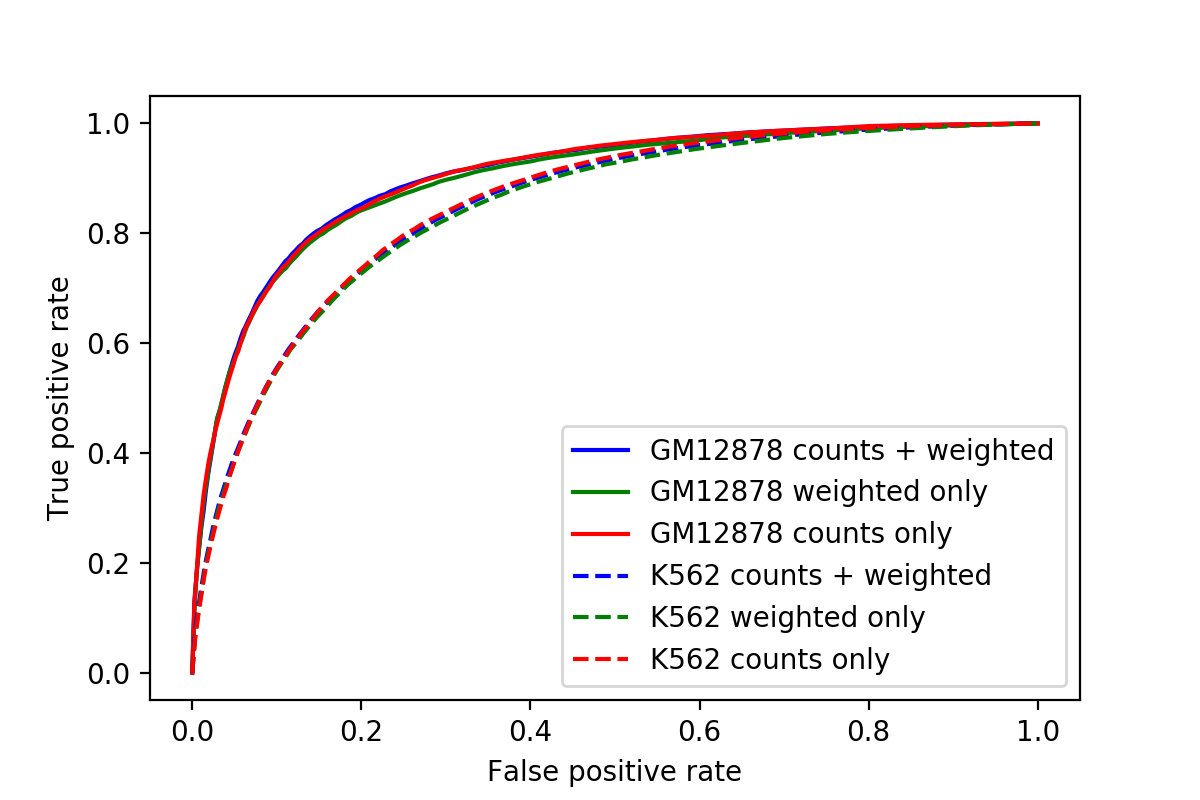
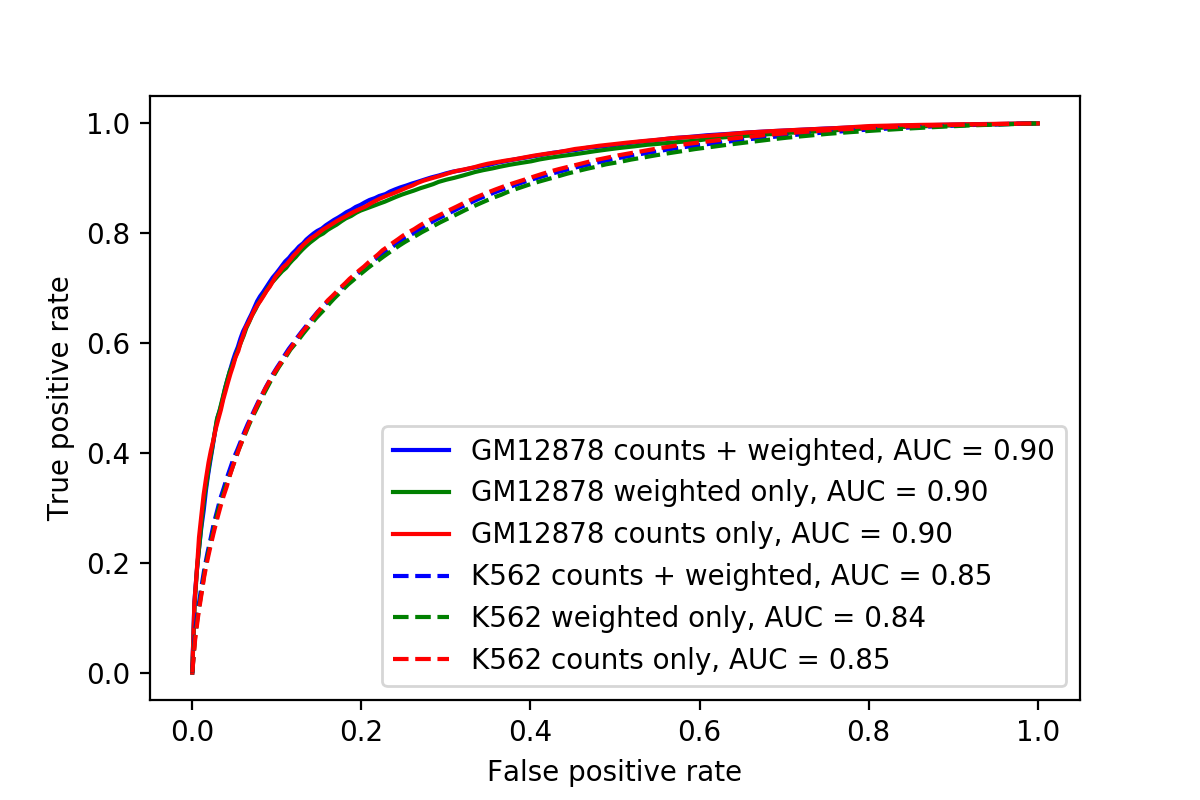
added fig4 fig5 plotting scripts

Changed region(s): [[0.3083, 0.5312, 0.8942, 0.875]]

diff --git a/scripts/plot_coeff_cell_lines.py b/scripts/plot_coeff_cell_lines.py
@@ -1,0 +1,35 @@
+import numpy as np
+import matplotlib.pyplot as plt
+import pandas as pd
+
+gm_coef2_fname= "../results/ENCFF342EGB_ENCFF305QBE_TPM_matrix_weighted_counts_only_lr_ranks.tsv"
+gm_coef2 = pd.read_csv(gm_coef2_fname, sep='\t', header=None, index_col='MOTIF_ID', names=["MOTIF_ID", "TF NAME", "COEF"])
+
+k562_coef_fname= "../results/K562_rep1_ENCFF285HUZ_TPM_matrix_weighted_counts_only_lr_ranks.tsv"
+k562_coef = pd.read_csv(k562_coef_fname, sep='\t', header=None, index_col='MOTIF_ID', names=["MOTIF_ID", "TF NAME", "COEF"])
+k562_coef_sorted = k562_coef.sort_index()
+gm_coef_sorted = gm_coef2.sort_index()
+
+plt.figure(figsize=(10, 7.5))
+plt.plot(k562_coef_sorted['COEF'].values, gm_coef_sorted['COEF'].values, '.', markersize=7, alpha=0.3)
+plt.xlabel('K562', FontSize=15)
+plt.ylabel('GM12878', FontSize=15)
+plt.title('Weighted only coefficients', FontSize=15)
+plt.savefig('../figs/weighted_only_coefficients.png', dpi=200)
+# plt.show()
+
+gm_coef3_fname = "../results/ENCFF342EGB_lr_ranks.tsv"
+gm_coef3 = pd.read_csv(gm_coef3_fname, sep='\t', header=None, index_col='MOTIF_ID', names=["MOTIF_ID", "TF NAME", "COEF"])
+k562_coef_fname2= "../results/K562_rep1_lr_scaled_ranks.tsv"
+k562_coef2 = pd.read_csv(k562_coef_fname2, sep='\t', header=None, index_col='MOTIF_ID', names=["MOTIF_ID", "TF NAME", "COEF"])
+k562_coef_sorted2 = k562_coef2.sort_index()
+
+gm_coef_sorted3 = gm_coef3.sort_index()
+plt.figure(figsize=(10, 7.5))
+plt.plot(k562_coef_sorted2['COEF'].values, gm_coef_sorted3['COEF'].values, '.', markersize=7, alpha=0.3)
+plt.xlabel('K562', FontSize=15)
+plt.ylabel('GM12878', FontSize=15)
+plt.title('Counts only coefficients', FontSize=15)
+plt.savefig('../figs/counts_only_coefficients.png', dpi=200)
+# plt.show()
+

diff --git a/scripts/plot_roc.py b/scripts/plot_roc.py
@@ -1,0 +1,32 @@
+import numpy as np
+import matplotlib.pyplot as plt
+import pandas as pd
+
+x1 = np.loadtxt("../results/ENCFF342EGB_ENCFF305QBE_TPM_lr_scaled_fpr_100.txt")
+y1 = np.loadtxt("../results/ENCFF342EGB_ENCFF305QBE_TPM_lr_scaled_tpr_100.txt")
+x2 = np.loadtxt("../results/ENCFF342EGB_ENCFF305QBE_TPM_matrix_weighted_counts_only_lr_fpr_100.txt")
+y2 = np.loadtxt("../results/ENCFF342EGB_ENCFF305QBE_TPM_matrix_weighted_counts_only_lr_tpr_100.txt")
+x3 = np.loadtxt("../results/ENCFF342EGB_lr_fpr_100.txt")
+y3 = np.loadtxt("../results/ENCFF342EGB_lr_tpr_100.txt")
+
+x4 = np.loadtxt("../results/K562_rep1_ENCFF285HUZ_TPM_lr_scaled_fpr_100.txt")
+y4 = np.loadtxt("../results/K562_rep1_ENCFF285HUZ_TPM_lr_scaled_tpr_100.txt")
+x5 = np.loadtxt("../results/K562_rep1_ENCFF285HUZ_TPM_matrix_weighted_counts_only_lr_fpr_100.txt")
+y5 = np.loadtxt("../results/K562_rep1_ENCFF285HUZ_TPM_matrix_weighted_counts_only_lr_tpr_100.txt")
+x6 = np.loadtxt("../results/K562_rep1_lr_fpr_100.txt")
+y6 = np.loadtxt("../results/K562_rep1_lr_tpr_100.txt")
+
+plt.figure()
+plt.plot(x1, y1, color='b', label="GM12878 counts + weighted, AUC = 0.90")
+plt.plot(x2, y2, color='g', label="GM12878 weighted only, AUC = 0.90")
+plt.plot(x3, y3, color='r', label="GM12878 counts only, AUC = 0.90")
+
+plt.plot(x4, y4, '--', color='b', label="K562 counts + weighted, AUC = 0.85")
+plt.plot(x5, y5, '--', color='g', label="K562 weighted only, AUC = 0.84")
+plt.plot(x6, y6, '--', color='r', label="K562 counts only, AUC = 0.85")
+# plt.plot(x6, y6, '--', color='r', label="K562 no RNA-seq")
+plt.xlabel("False positive rate")
+plt.ylabel("True positive rate")
+plt.legend()
+plt.savefig("../figs/ROC.png", dpi=200)
+# plt.show()
